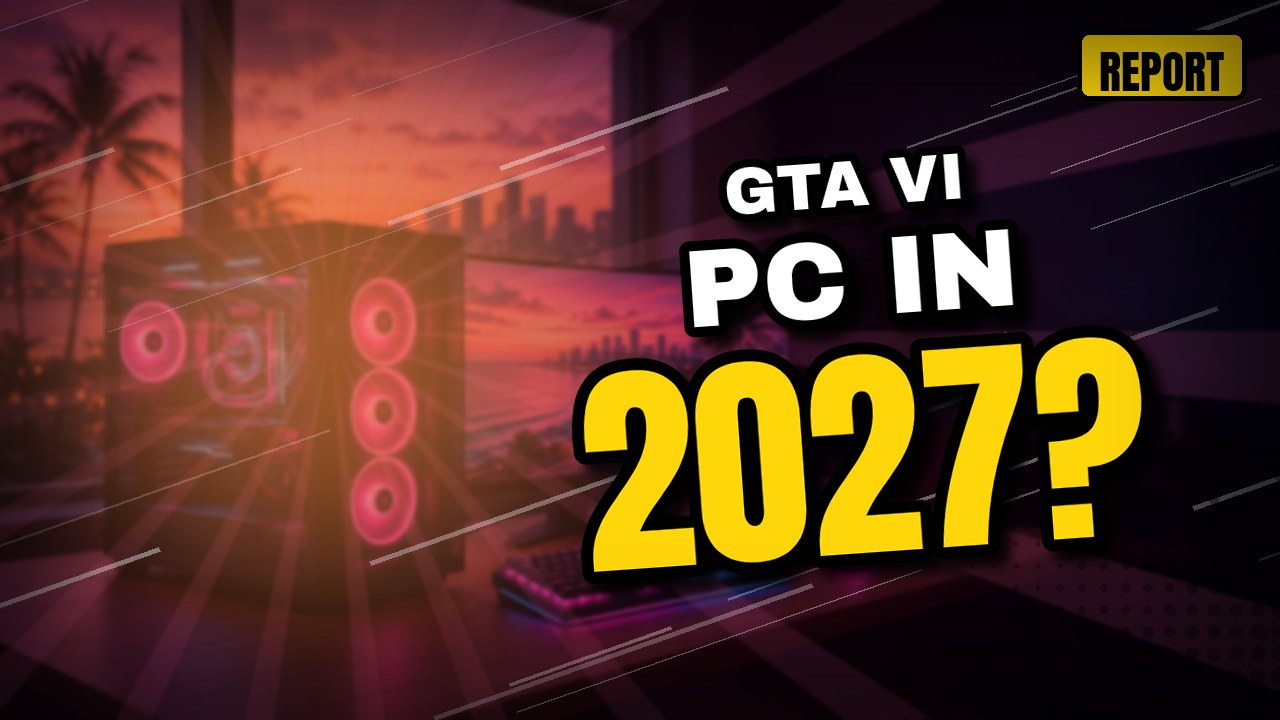
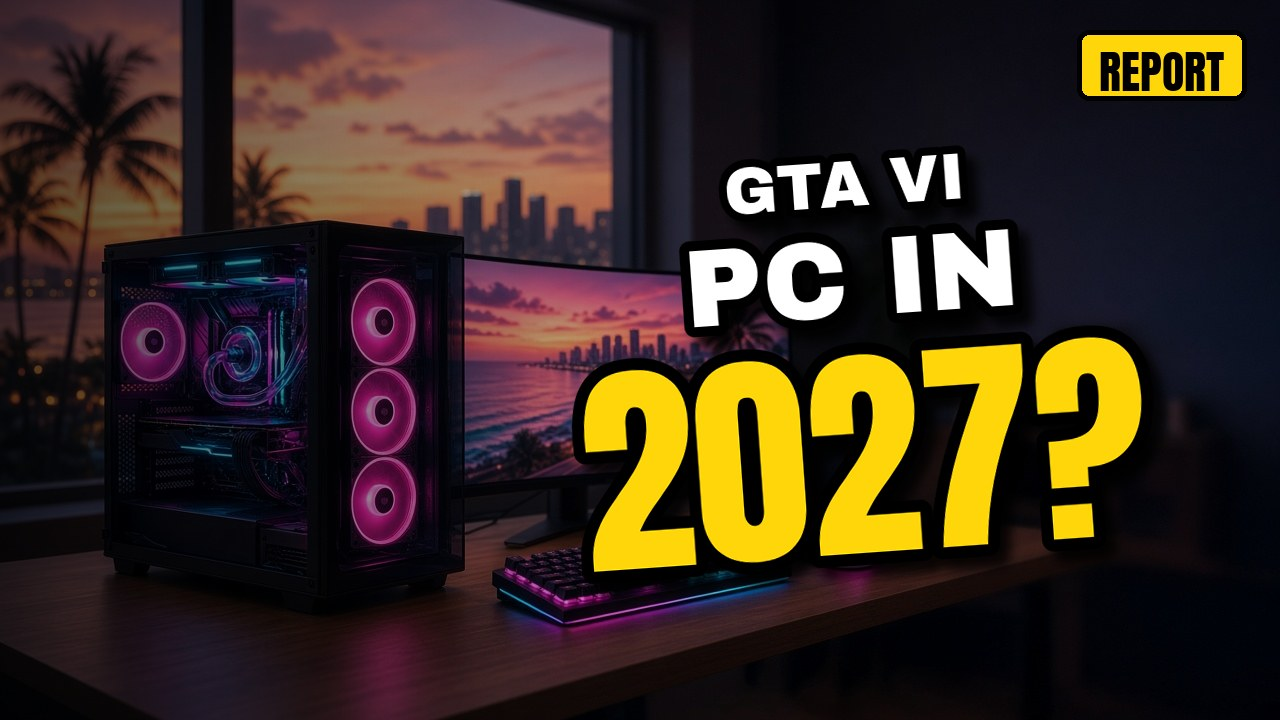
Photoreal covers: natural photo, light text-side gradient only

diff --git a/scripts/thumbs_v2.py b/scripts/thumbs_v2.py
@@ -53,13 +53,14 @@ def background(theme, focus, bg_image=None, bg_mode='faint'):
     grad = _radial((W, H), focus, mid, dark, 900)
     if bg_image and not os.path.isabs(bg_image): bg_image = os.path.join(ROOT, bg_image)
     full = bool(bg_image and os.path.exists(bg_image) and bg_mode == 'full')
-    if full:  # real scene, colour-graded toward the theme (soft-light-ish blend), slightly blurred so the subject pops
-        sc = _cover(bg_image).filter(ImageFilter.GaussianBlur(2))
-        sc = ImageEnhance.Contrast(ImageEnhance.Brightness(sc).enhance(0.85)).enhance(1.15)
-        im = Image.blend(sc, ImageChops.multiply(sc, grad.point(lambda v: min(255, v * 2))), 0.45).convert('RGBA')
-        im = Image.blend(im, grad.convert("RGBA"), 0.12)
-    else:
-        im = grad.convert('RGBA')
+    if full:  # photoreal cover: natural photo, only a soft dark gradient behind the text side (Rick, Oct 15)
+        im = _cover(bg_image).convert('RGBA')
+        text_left = focus[0] > W / 2  # focus is the character side; text goes opposite
+        g = Image.linear_gradient('L').rotate(90 if text_left else -90).resize((W, H))
+        g = g.point(lambda v: int(max(0, v - 60) * 170 / 195))  # up to ~67% black at the text edge, clear past mid
+        sh = Image.new('RGBA', (W, H), (0, 0, 0, 255)); sh.putalpha(g); im.alpha_composite(sh)
+        return im
+    im = grad.convert('RGBA')
     if bg_image and os.path.exists(bg_image) and not full:  # faint, color-graded scene underneath
         sc = _cover(bg_image).convert('L').filter(ImageFilter.GaussianBlur(3))
         sc = Image.merge('RGBA', [sc.point(lambda v: int(v * mid[0] / 255)), sc.point(lambda v: int(v * mid[1] / 255)),
@@ -159,9 +160,9 @@ def render(out, lines, key=0, label=None, theme='fire', character=None, side='ri
         d = ImageDraw.Draw(im); bf = ImageFont.truetype(F_KEY, 46); bwid = bf.getbbox(badge.upper())[2] + 44
         bx = 34 if side == 'right' else W - bwid - 34
         d.rounded_rectangle((bx, 30, bx + bwid, 100), 12, fill=YEL, outline=BLACK, width=5); d.text((bx + 22, 36), badge.upper(), font=bf, fill=BLACK)
-    # vignette
-    v = Image.new('L', (W, H), 0); ImageDraw.Draw(v).rectangle((0, 0, W, H), outline=255, width=60)
-    im.alpha_composite(Image.merge('RGBA', [Image.new('L', (W, H), 0)] * 3 + [v.filter(ImageFilter.GaussianBlur(50)).point(lambda p: int(p * .55))]))
+    # vignette (not on photoreal full-bleed covers)
+    if not (bg_mode == 'full' and bg_image): v = Image.new('L', (W, H), 0); ImageDraw.Draw(v).rectangle((0, 0, W, H), outline=255, width=60)
+    if not (bg_mode == 'full' and bg_image): im.alpha_composite(Image.merge('RGBA', [Image.new('L', (W, H), 0)] * 3 + [v.filter(ImageFilter.GaussianBlur(50)).point(lambda p: int(p * .55))]))
     os.makedirs(os.path.dirname(out), exist_ok=True)
     im.convert('RGB').save(out, quality=88, optimize=True, progressive=True)
     return out

diff --git a/RUNBOOK-news.md b/RUNBOOK-news.md
@@ -67,6 +67,7 @@ thumb: {style: v2, label: "GTA VI", lines: ["RADIO", "REVEALED"], key: 0, theme:
   - Use it as `bg: media/characters/gta6-<scene>.jpg`, `bg_mode: full`, no `character:`, `side: left` (text side). New scene every post; never reuse an earlier GTA image (check `rg -n "^thumb" content/articles/gta-*.md`).
   - GenerateImage returns a path outside the repo: copy it into `media/characters/gta6-<scene>.jpg` IMMEDIATELY after generating (`cp <returned path> media/characters/gta6-<scene>.jpg`), before doing anything else.
   - Before building, confirm the generated file exists on disk (`ls -la media/characters/gta6-<scene>.jpg`) and look at it: it must be photoreal with no drawn/cartoon elements. If the image can't be saved, retry generating; NEVER fall back to props or placeholders.
+- **Photoreal full-bleed covers (`bg_mode: full`, all games) keep the photo's natural brightness and colors:** no rays, glow, colour wash, speed lines, halftone or vignette; only a soft dark gradient on the text side (the side opposite `side:`) for readability. This is built into `thumbs_v2.py`; don't add effects back. Pick `side` so the text lands on the emptier half of the scene.
 - Optional `bg: media/screenshots/...jpg` adds a faint, colour-graded scene under the rays (default `bg_mode: faint`); `bg_mode: full` uses the real scene, colour-graded, as the background.
 - **ARC Raiders thumbnails MUST use Rick's own gameplay images** (never the AI placeholder):
   - Clean HUD-free scenes (1600x900): `media/screenshots/arc-raiders/clean/arc-01.jpg` … `arc-06.jpg`. Use them as `bg:` with `bg_mode: full`.
